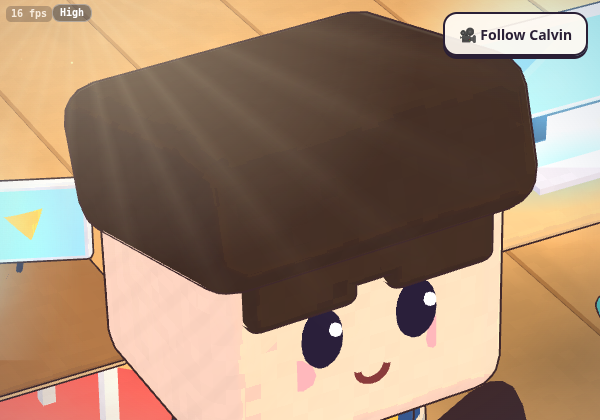
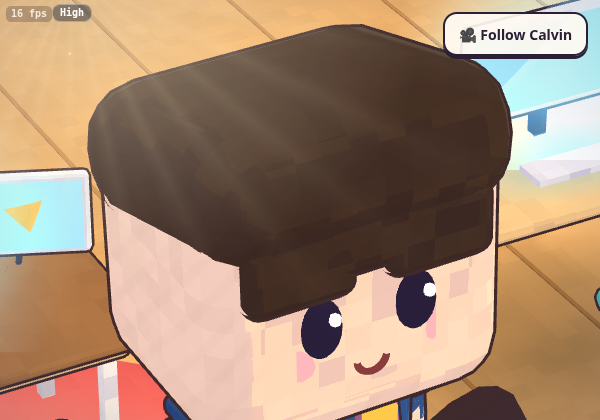
Restyle pass 2: bigger pixel cells + strong dithered 3-tone shading, thicker dark outlines, more chamfer, scarf, puffy sleeve cuffs, chunky shoes with cream soles, matte (dimmer) output; slimmer hair box for clearance
Perf noon 165 calls/159.2k tris, night 122/121.1k. seatcheck, play, walltest, cleartest pass.

diff --git a/src/chibi.js b/src/chibi.js
@@ -1,7 +1,7 @@
 import * as THREE from 'three';
 import { RoundedBoxGeometry } from 'three/examples/jsm/geometries/RoundedBoxGeometry.js';
 // chunky chamfered low-poly blocks (style-ref): 1-segment rounded boxes read as bevelled voxels
-const Blk = (r) => new RoundedBoxGeometry(2 * r, 2 * r, 2 * r, 2, r * 0.22);
+const Blk = (r) => new RoundedBoxGeometry(2 * r, 2 * r, 2 * r, 2, r * 0.32);
 const BlkCap = (r, len) => new RoundedBoxGeometry(2 * r, len + 2 * r, 2 * r, 2, r * 0.3);
 import { toonMesh, toonMat } from './toon.js';
 import { bake } from './bake.js';
@@ -35,14 +35,14 @@ export function makeChibi({ name, role, skin = 0xffe0c8, hair, shirt, pants, hai
   if (sleepMouth === 'mumble') { anim = new THREE.Mesh(new THREE.SphereGeometry(0.05, 10, 8), new THREE.MeshBasicMaterial({ color: MOUTH })); anim.scale.set(1, 0.35, 0.4); anim.position.set(0, -0.25, 0.62); }
   if (anim) { anim.visible = false; anim.userData.dynamic = true; head.add(anim); }
   // hair cap
-  const cap = toonMesh(new RoundedBoxGeometry(1.46, 0.66, 1.4, 2, 0.16), hair); cap.scale.set(1.06, 1, 1.02); cap.position.y = 0.5; cap.rotation.x = -0.28; head.add(cap);
+  const cap = toonMesh(new RoundedBoxGeometry(1.38, 0.62, 1.34, 2, 0.26), hair); cap.scale.set(1.06, 1, 1.02); cap.position.y = 0.47; cap.rotation.x = -0.28; head.add(cap);
   // soft fringe bangs
   [-0.32, 0, 0.32].forEach((x, i) => { const b = toonMesh(Blk(0.22), hair); b.scale.set(1.1, 0.75, 0.6); b.position.set(x, 0.36 - Math.abs(x) * 0.25, 0.52); head.add(b); });
   // little rounded ears/nose and a smile
   if (hairStyle === 'twintails') { [-1, 1].forEach(s => { const t = toonMesh(BlkCap(0.17, 0.55), hair); t.position.set(0.74 * s, -0.25, -0.1); t.rotation.z = 0.35 * s; head.add(t);
       const bow = toonMesh(new THREE.BoxGeometry(0.22, 0.14, 0.1), 0xffe066); bow.position.set(0.66 * s, 0.25, -0.05); head.add(bow); }); }
   if (hairStyle === 'spiky') { for (let i = 0; i < 7; i++) { const a = i / 7 * Math.PI * 2; const sp = toonMesh(new THREE.ConeGeometry(0.19, 0.42, 4), hair);
-      sp.position.set(Math.cos(a) * 0.4, 0.86, Math.sin(a) * 0.4 - 0.08); sp.rotation.set(Math.sin(a) * 0.7, 0, -Math.cos(a) * 0.7); head.add(sp); }
+      sp.position.set(Math.cos(a) * 0.38, 0.8, Math.sin(a) * 0.4 - 0.08); sp.rotation.set(Math.sin(a) * 0.7, 0, -Math.cos(a) * 0.7); head.add(sp); }
     const gl = toonMesh(new THREE.TorusGeometry(0.13, 0.025, 6, 14), 0x333344, { outline: false }); [-0.22, 0.22].forEach(x => { const g = gl.clone(); g.position.set(x, -0.04, 0.66); head.add(g); }); }
   if (hairStyle === 'bun') { const bun = toonMesh(Blk(0.3), hair); bun.position.set(0, 0.62, -0.38); head.add(bun);
     const pin = toonMesh(new THREE.CylinderGeometry(0.025, 0.025, 0.7, 6), 0x8b5a3c, { outline: false }); pin.rotation.z = 1.1; pin.position.set(0, 0.66, -0.4); head.add(pin);
@@ -53,9 +53,15 @@ export function makeChibi({ name, role, skin = 0xffe0c8, hair, shirt, pants, hai
   if (headphones) { const band = toonMesh(new THREE.TorusGeometry(0.78, 0.07, 6, 20, Math.PI), 0x2b2d42); band.position.set(0, 0.05, -0.05); head.add(band);
     [-1, 1].forEach(s => { const cup = toonMesh(new THREE.CylinderGeometry(0.22, 0.22, 0.16, 14), 0xff5d8f); cup.rotation.z = Math.PI / 2; cup.position.set(0.78 * s, 0.0, -0.05); head.add(cup); }); }
   const limb = (c, len, r, end, endR) => { const p = new THREE.Group(); const m = toonMesh(BlkCap(r, len), c); m.position.y = -len / 2 - r * 0.5; p.add(m);
-    if (end !== undefined) { const e = toonMesh(Blk(endR), end); e.position.y = -len - r; if (endR > 0.14) { e.scale.set(1, 0.7, 1.35); e.position.z = 0.05; } p.add(e); } return p; };
+    if (end !== undefined) { const e = toonMesh(Blk(endR), end); e.position.y = -len - r; if (endR > 0.14) { e.scale.set(1.05, 0.7, 1.4); e.position.z = 0.05;
+      const sole = toonMesh(new RoundedBoxGeometry(endR * 2.2, 0.07, endR * 2.9, 1, 0.02), 0xf3ead6); sole.position.set(0, -len - r - endR * 0.62, 0.05); p.add(sole); } p.add(e); }
+    if (!(endR > 0.14)) [0.3, 0.72].forEach(f => { const cuff = toonMesh(new RoundedBoxGeometry(r * 2.35, 0.07, r * 2.35, 1, 0.025), new THREE.Color(c).multiplyScalar(0.82)); cuff.position.y = -len * f - r * 0.3; p.add(cuff); }); // puffy sleeve segments
+    return p; };
   const armL = limb(shirt, 0.28, 0.12, skin, 0.12), armR = limb(shirt, 0.28, 0.12, skin, 0.12); armL.position.set(-0.44, 1.08, 0); armR.position.set(0.44, 1.08, 0); body.add(armL, armR);
   const legL = limb(pants, 0.24, 0.15, 0x4a3b3f, 0.16), legR = limb(pants, 0.24, 0.15, 0x4a3b3f, 0.16); legL.position.set(-0.16, 0.5, 0); legR.position.set(0.16, 0.5, 0); root.add(legL, legR);
+  // chunky knit scarf + hanging tail (style-ref), accent tone derived from the shirt so each bot keeps its palette
+  { const sc = new THREE.Color(shirt).lerp(new THREE.Color(0xd97a9c), 0.55); const ring = toonMesh(new RoundedBoxGeometry(0.86, 0.2, 0.74, 2, 0.08), sc); ring.position.y = 1.2; body.add(ring);
+    const tail = toonMesh(new RoundedBoxGeometry(0.2, 0.42, 0.1, 1, 0.04), sc.clone().multiplyScalar(0.9)); tail.position.set(0.18, 0.98, 0.36); tail.rotation.z = 0.12; body.add(tail); }
   // invisible fat hit-box for easy tapping
   const hit = new THREE.Mesh(new THREE.CylinderGeometry(0.85, 0.85, 2.6, 8), new THREE.MeshBasicMaterial({ visible: false })); hit.position.y = 1.3; hit.userData.chibi = root; root.add(hit);
   // merge each rigid part into one fill + one outline batch

diff --git a/src/toon.js b/src/toon.js
@@ -43,9 +43,9 @@ void main(){ vec3 n=normalize(vN); float d=dot(n,uKeyDir); vec3 alb = uColor*vC;
  // smoother 3-band ramp
  // matte cel ramp: 3 flat tones (shadow / mid / lit) with soft painted edges; shadows tinted warm (rose-violet), not grey-blue
  // pixel-art cel: world-space 'texel' cells (~12/unit) give square pixel clusters; band edges are dithered per cell
- vec3 cell = floor(vW*12.0 + 0.001); float px = mix(0.5, h21(cell.xy + cell.z*7.13), uDetail);
- float dq = dd + (px-0.5)*0.16;
- float b = 0.34 + 0.36*step(0.0, dq) + 0.30*step(0.5, dq);
+ vec3 cell = floor(vW*7.0 + 0.001); float px = mix(0.5, h21(cell.xy + cell.z*7.13), uDetail);
+ float dq = dd + (px-0.5)*0.3;
+ float b = 0.24 + 0.4*step(0.0, dq) + 0.36*step(0.5, dq); // stronger 3-tone pixel bands
  vec3 shade = uShadeColor*vec3(1.08,0.9,0.92) + vec3(0.03,0.01,0.0);
  vec3 light = mix(shade, uKeyColor, b);
  float term = smoothstep(-0.14,0.0,dd)*(1.0-smoothstep(0.0,0.18,dd)); light += vec3(0.11,0.035,-0.02)*term;
@@ -61,8 +61,8 @@ void main(){ vec3 n=normalize(vN); float d=dot(n,uKeyDir); vec3 alb = uColor*vC;
  vec3 v = normalize(cameraPosition - vW); float rim = pow(1.0-max(dot(n,v),0.0),3.0);
  rim = smoothstep(0.55,0.8, rim)*0.035*smoothstep(0.0,0.4,d); // barely-there warm edge, no plastic sheen
  // painted paper grain: low-contrast albedo mottling instead of specular highlights
- float paper = (px-0.5)*0.05; // blocky pixel mottling, no gloss
- vec3 c = alb*(1.0 + paper)*light + rim*uRimColor + uEmissive;
+ float paper = (px-0.5)*0.1; // blocky pixel mottling, no gloss
+ vec3 c = 0.92*alb*(1.0 + paper)*light + rim*uRimColor + uEmissive;
  float fd = length(cameraPosition - vW); c = mix(c, uFogColor, smoothstep(uFogRange.x, uFogRange.y, fd)*0.85);
  // colour grade: saturation, gentle tone curve, warm lift in the mids
  float lum = dot(c, vec3(0.299,0.587,0.114)); c = mix(vec3(lum), c, uGrade.x); c = pow(max(c, 0.0), vec3(uGrade.y)); c += uGrade.z*vec3(1.0,0.6,0.2)*(1.0-abs(lum*2.0-1.0));
@@ -79,7 +79,7 @@ export function toonMat(color, emissive = 0x000000) {
 
 // Inverted-hull outline
 const outlineMat = new THREE.ShaderMaterial({
-  uniforms: { uW: { value: 0.014 } }, side: THREE.BackSide,
+  uniforms: { uW: { value: 0.022 } }, side: THREE.BackSide,
   // depth-aware: hull grows with view distance so lines keep a steady screen width (thin up close, not vanishing far away)
   vertexShader: `uniform float uW; void main(){ vec4 mv0 = modelViewMatrix*vec4(position,1.0); float k = clamp(-mv0.z/22.0, 0.55, 1.7); vec3 p = position + normal*uW*k; gl_Position = projectionMatrix*modelViewMatrix*vec4(p,1.0);}`,
   fragmentShader: `void main(){ gl_FragColor=vec4(0.25,0.16,0.17,1.0);}`,
